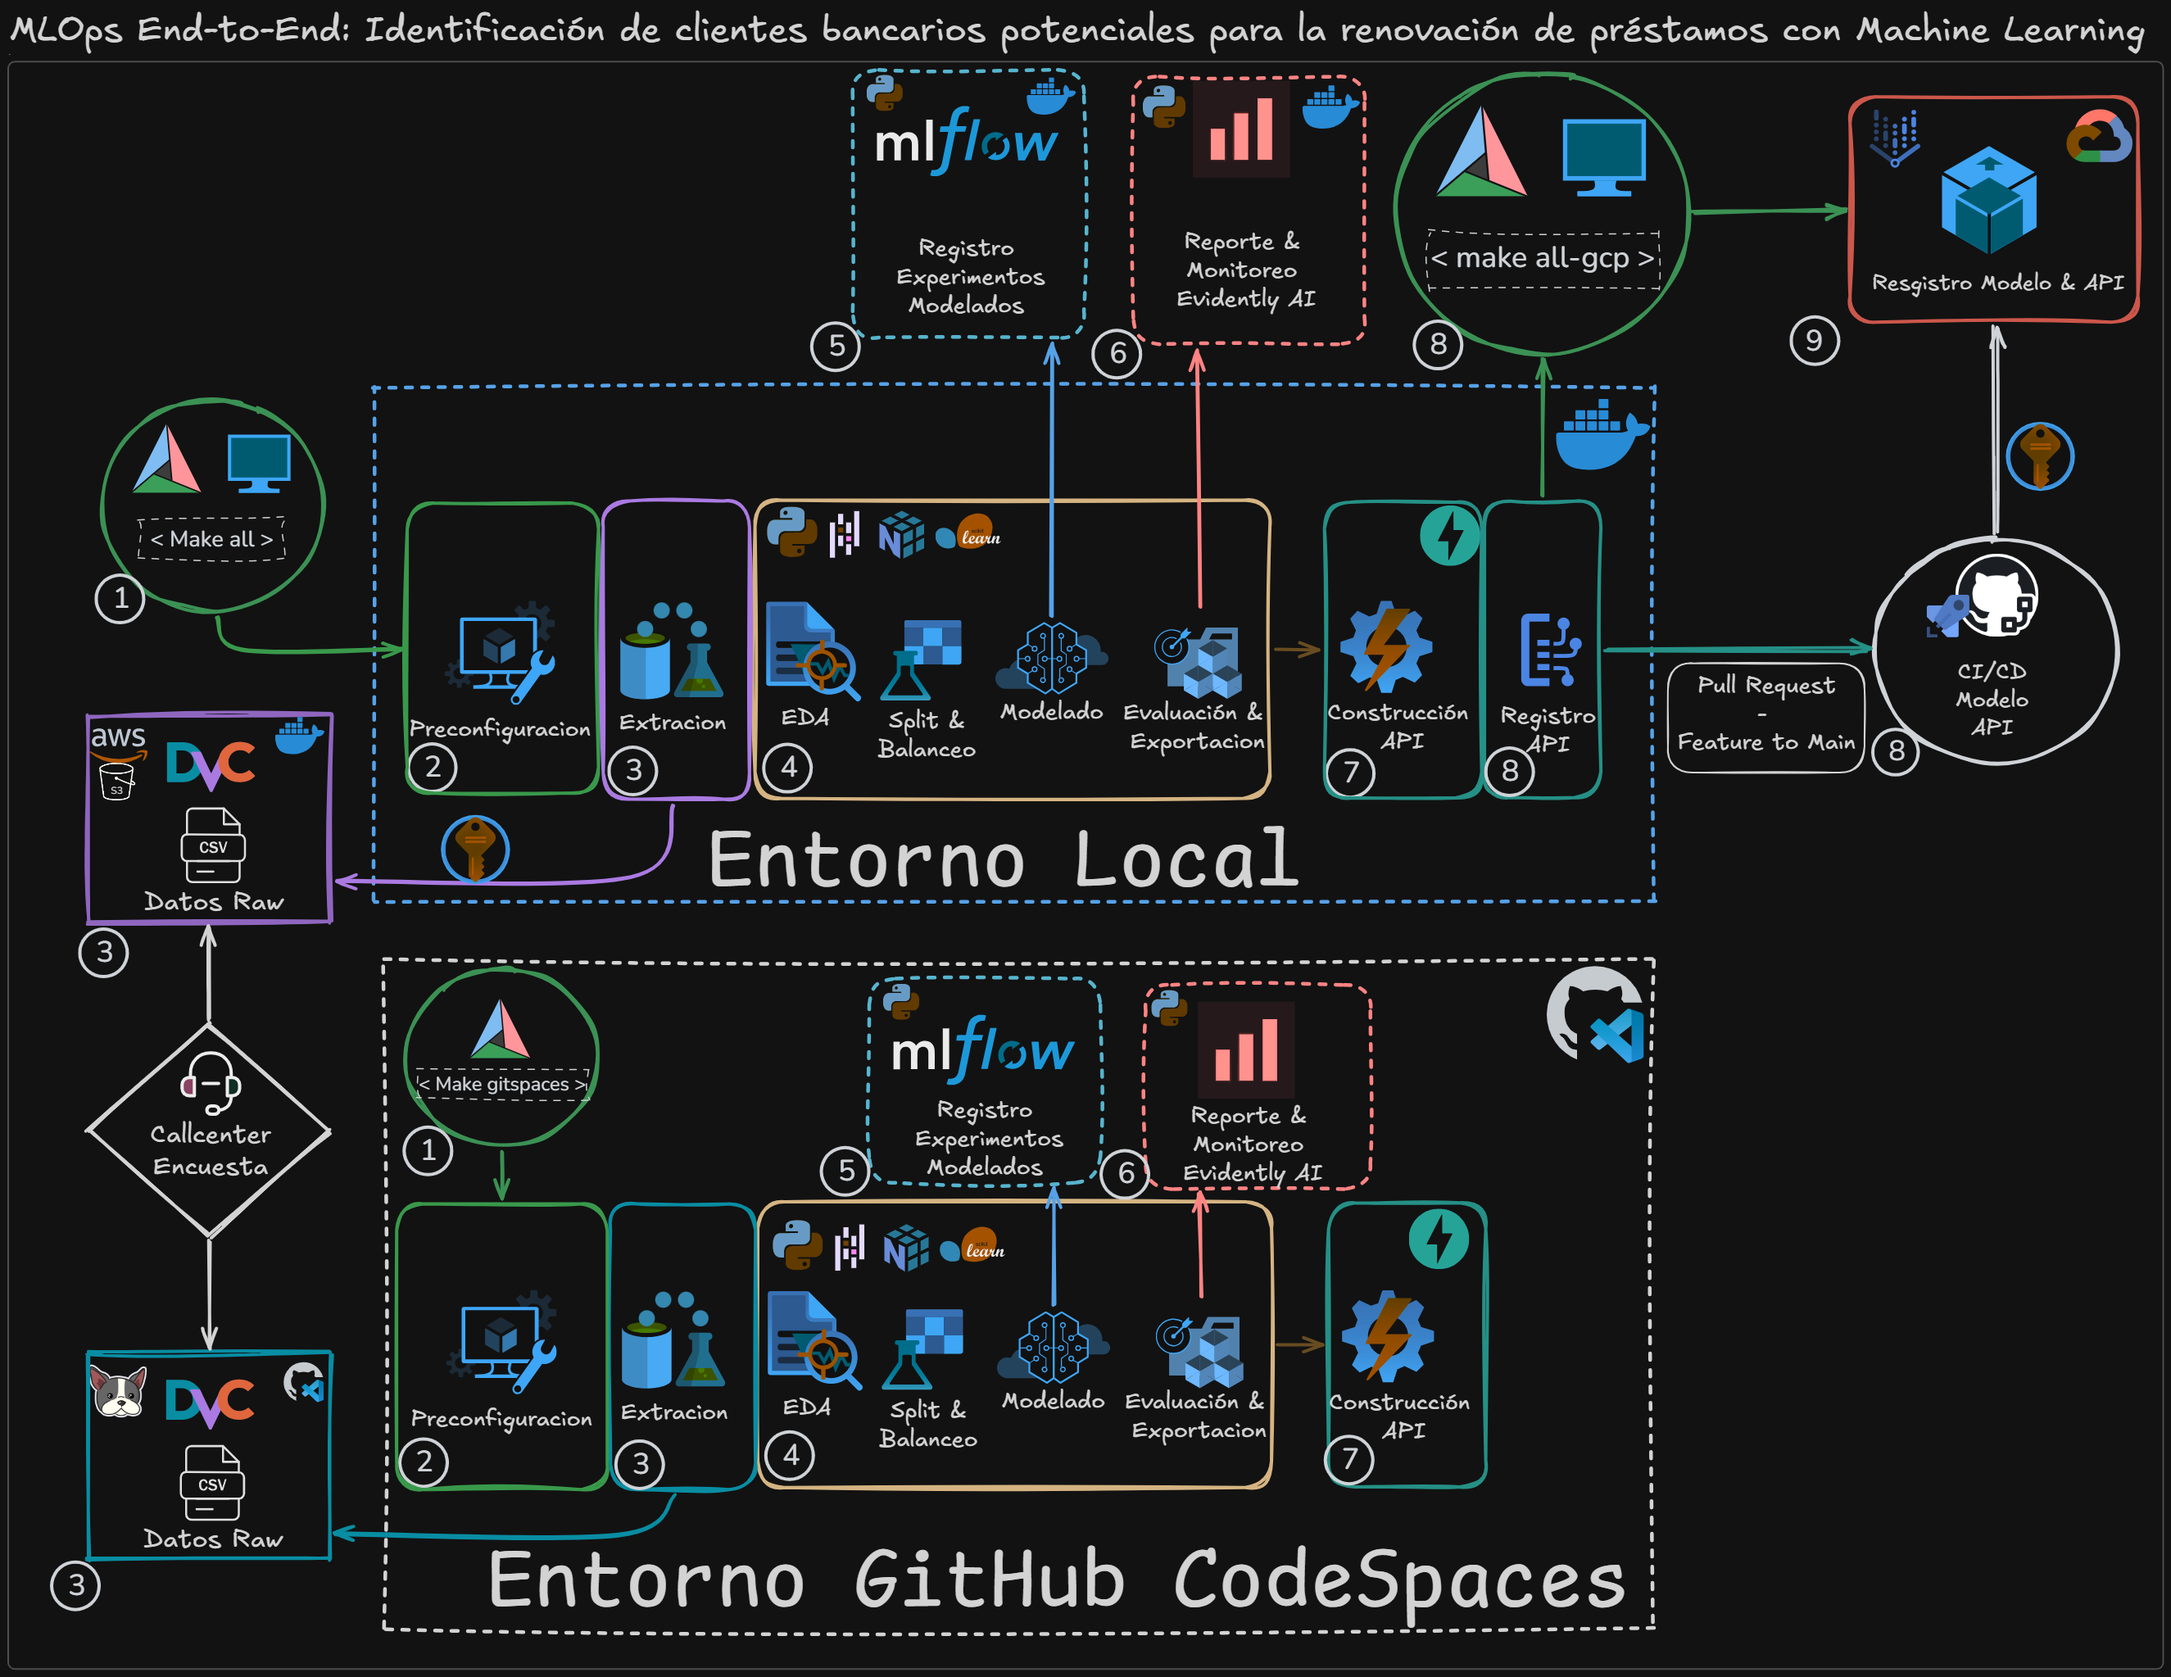
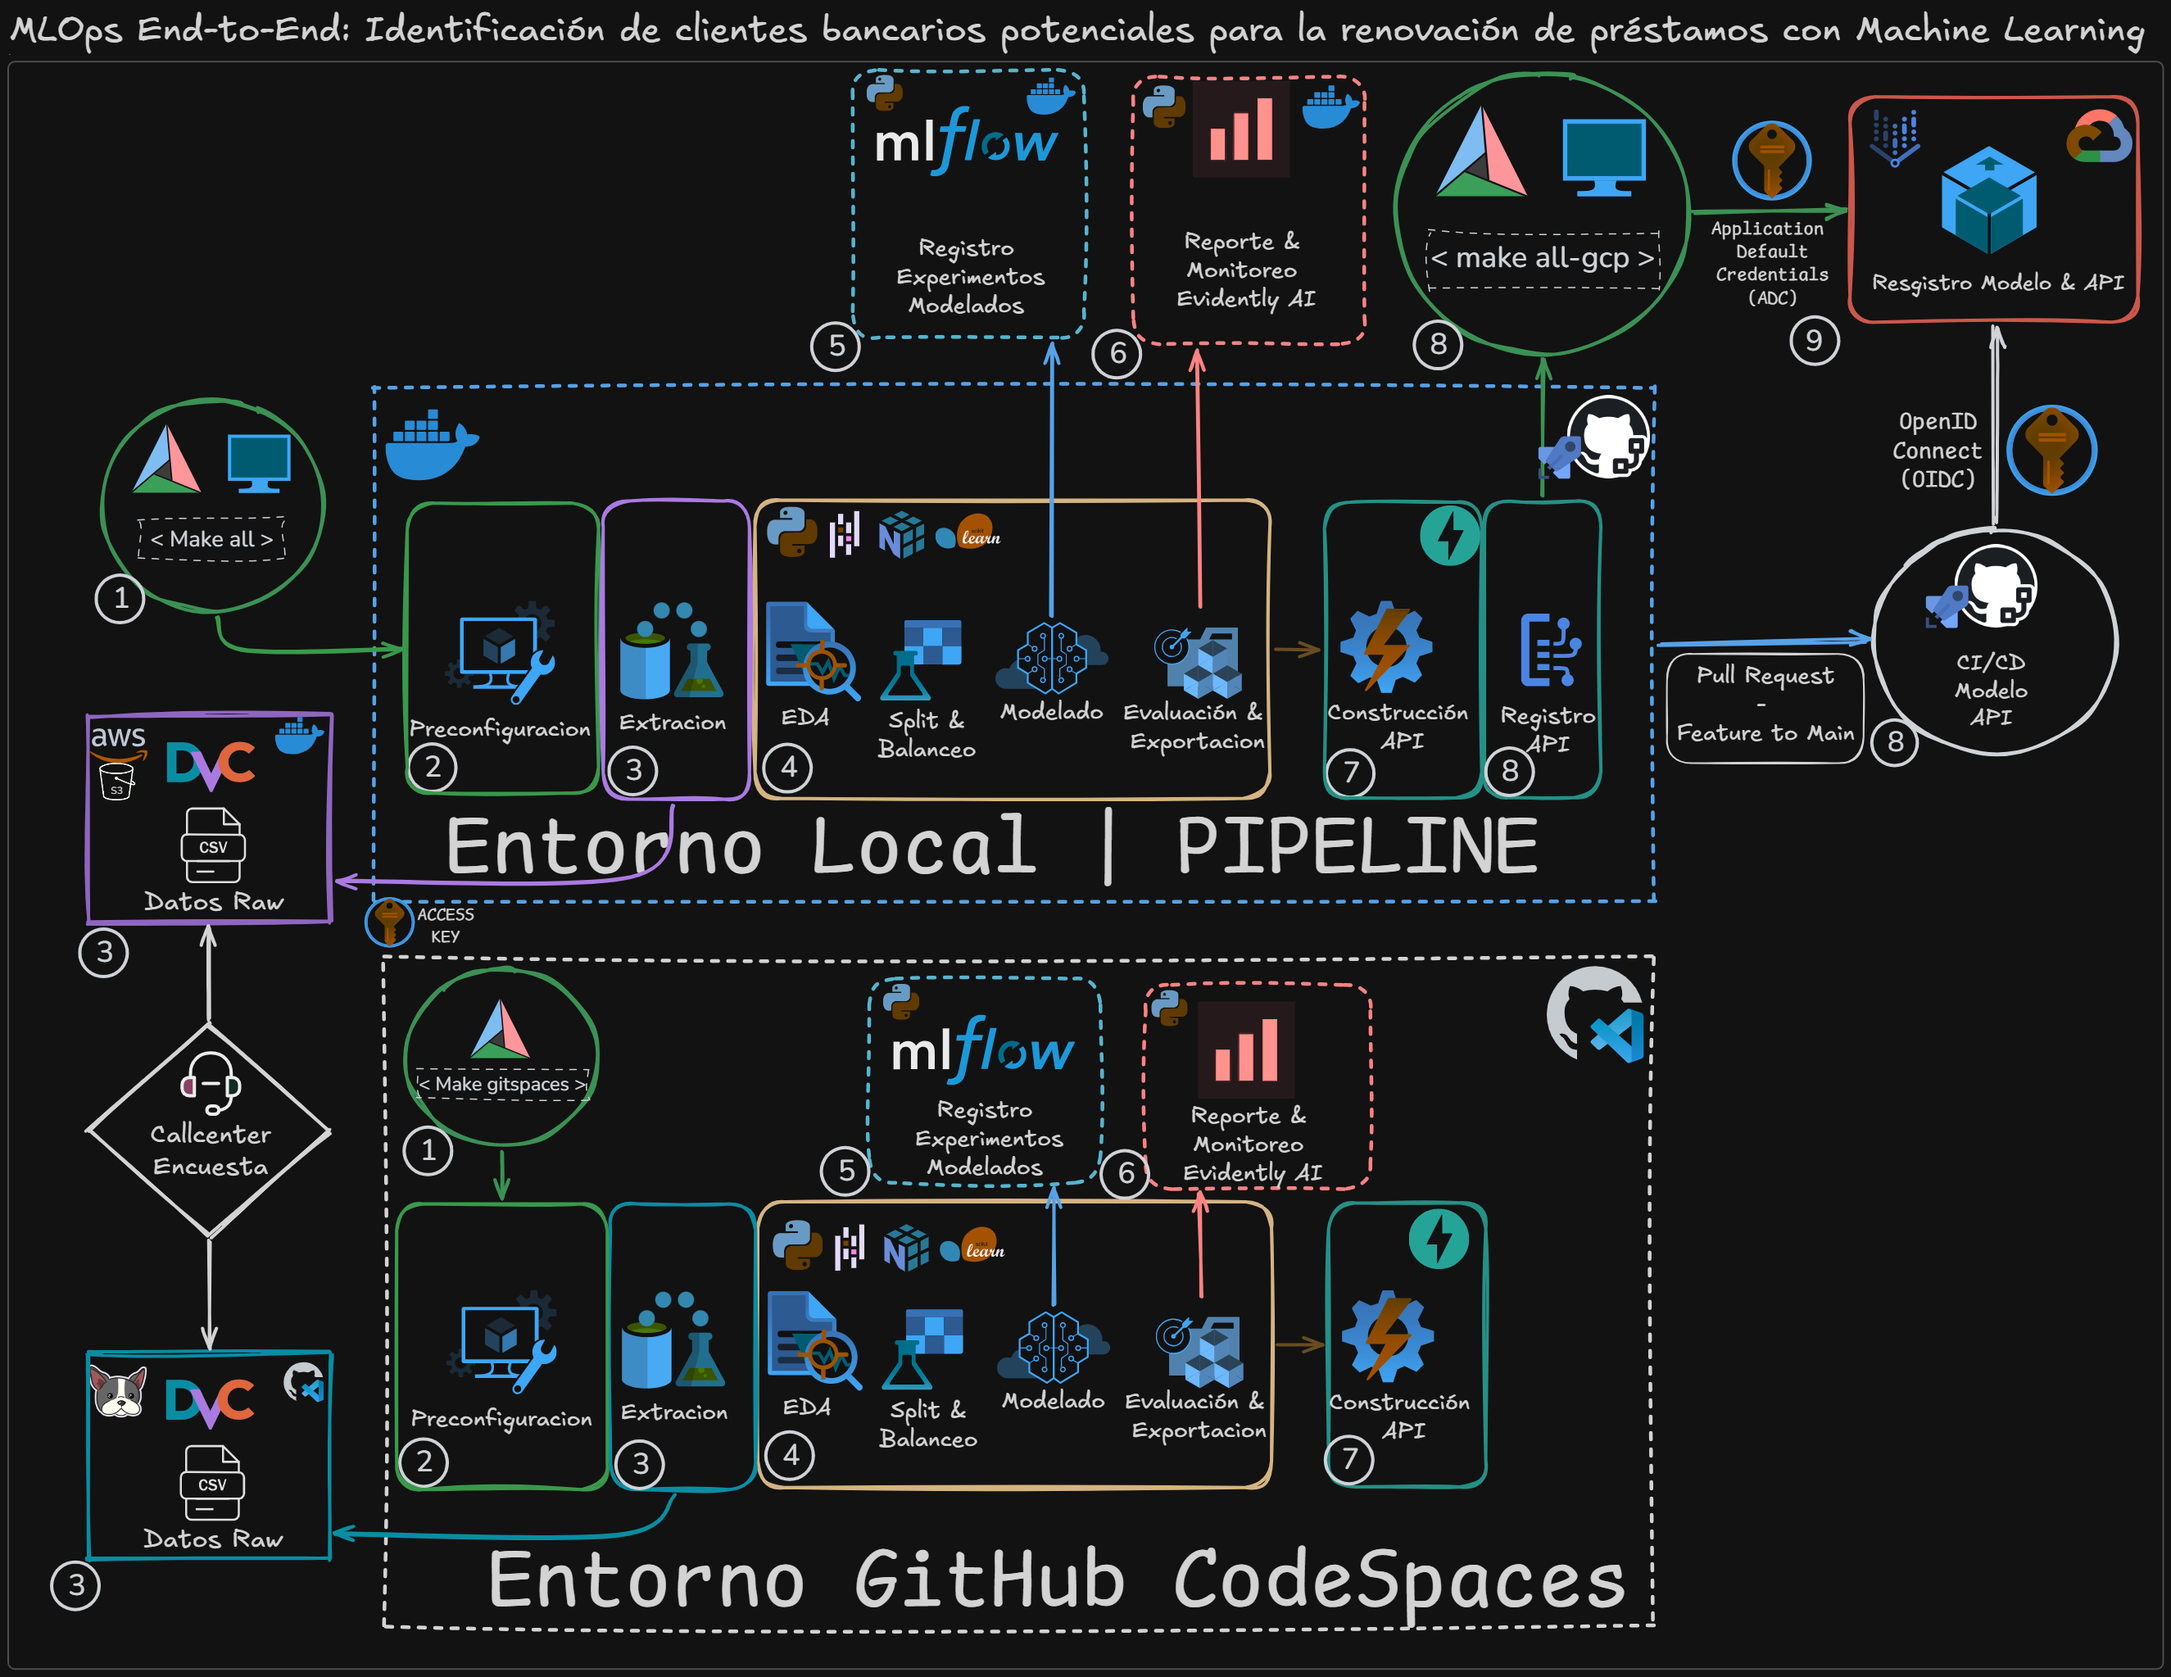
Pipeline para CICD con registro y despliegue de modelo en GCP (#10)
* se agrega autentificacion OIDC con google cloud

* ajuste validacion oidc con gcp

* se agrega modelo .bst

* ajuste de codigo con modelo bst para vertex ai

* se agrega modelo .bst en gitignore

* ajuste pipeline registro storage vertexai y fastapi en gcp

* ajuste pipeline.yml se quita prueba con push task

* se ajusta readme con evidencias de despliegues a gcp

* validacion de pull request en pipeline faltante

diff --git a/src/train_model.py b/src/train_model.py
@@ -407,8 +407,9 @@ def optimizar_hiperparametros_mlflow(
 def exportar_modelo_resultados(modelo: ClassifierMixin, datos_json: dict) -> None:
 
     log.info(f"=== EXPORTANDO ARTEFACTOS LOCALES A {C.ARTIFACTS_DIR} ===")
-
+    
     C.ARTIFACTS_DIR.mkdir(parents=True, exist_ok=True)
+    booster = modelo.get_booster()
 
     with open(C.METRICS_PATH, "w", encoding="utf-8") as f:
         json.dump(datos_json, f, ensure_ascii=False, indent=4)
@@ -422,8 +423,12 @@ def exportar_modelo_resultados(modelo: ClassifierMixin, datos_json: dict) -> Non
     log.info(f"Modelo guardado en formato Skops en: {C.MODEL_SKOPS_PATH}")
 
     if isinstance(modelo, XGBClassifier):
-        modelo.get_booster().save_model(C.MODEL_JSON_PATH)
+        booster.save_model(C.MODEL_JSON_PATH)
         log.info(f"Modelo XGBoost guardado nativamente en JSON en: {C.MODEL_JSON_PATH}")
+
+        modelo_ubjson = booster.save_raw(raw_format="ubj")
+        C.MODEL_BST_PATH.write_bytes(bytes(modelo_ubjson))
+        log.info(f"Modelo XGBoost guardado en BST en: {C.MODEL_BST_PATH}")
 
 
 # ── Función principal ─────────────────────────────────────────────────────

diff --git a/config.py b/config.py
@@ -30,6 +30,8 @@ JSON_DRIFT_PATH = REPORTS_DIR / 'reporte_drift_renovacion.json'
 MODEL_PKL_PATH = ARTIFACTS_DIR / 'model.pkl'
 MODEL_SKOPS_PATH = ARTIFACTS_DIR / 'model.skops'
 MODEL_JSON_PATH = ARTIFACTS_DIR / 'model.json'
+MODEL_JOBLIB_PATH = ARTIFACTS_DIR / 'model.joblib'
+MODEL_BST_PATH = ARTIFACTS_DIR / 'model.bst'
 METRICS_PATH = ARTIFACTS_DIR / 'metrics.json'
 
 # ── Columnas  para Preprocesamiento ────────────────────────────────────────────────

diff --git a/README.md b/README.md
@@ -118,6 +118,29 @@ En caso de tener cuenta Google Cloud y querer registrar el modelo y API se debe 
 ![](./evidencias/artifact_registry_model.png)
 ![](./evidencias/artifact_registry_model_2.png)
 
+Para autentificarse con Github se utiliza la validacion y autentificacion por OpenOpenID Connect con Workload Identity Federation de GCP:
+
+[Configuring OpenID Connect in Google Cloud Platform ](https://docs.github.com/en/actions/how-tos/secure-your-work/security-harden-deployments/oidc-in-google-cloud-platform)
+
+[Workload Identity Federation](https://docs.cloud.google.com/iam/docs/workload-identity-federation) 
+
+![](./evidencias/OICD_project.png)
+
+---
+
+##  Evidencias CI/CD con Despliegue en GCP
+- **Pipeline Github Actions**
+![](./evidencias/pipeline_CICD.png)
+
+- **Registro de Modelos en GCP Bucket**
+![](./evidencias/gcp_bucket_CICD.png)
+
+- **Registro del Aplicativo FastApi en Artifact Registry**
+![](./evidencias/artifact_registry_CICD.png)
+
+- **Registro del modelo en Vertex AI para exposicion del EndPoint.** 
+_Por temas de cuotas ($) no se habilita el consumo del modelo en linea_
+![](./evidencias/vertexAI_CICD.png)
 ---
 
 ## 📂 Estructura del Repositorio
